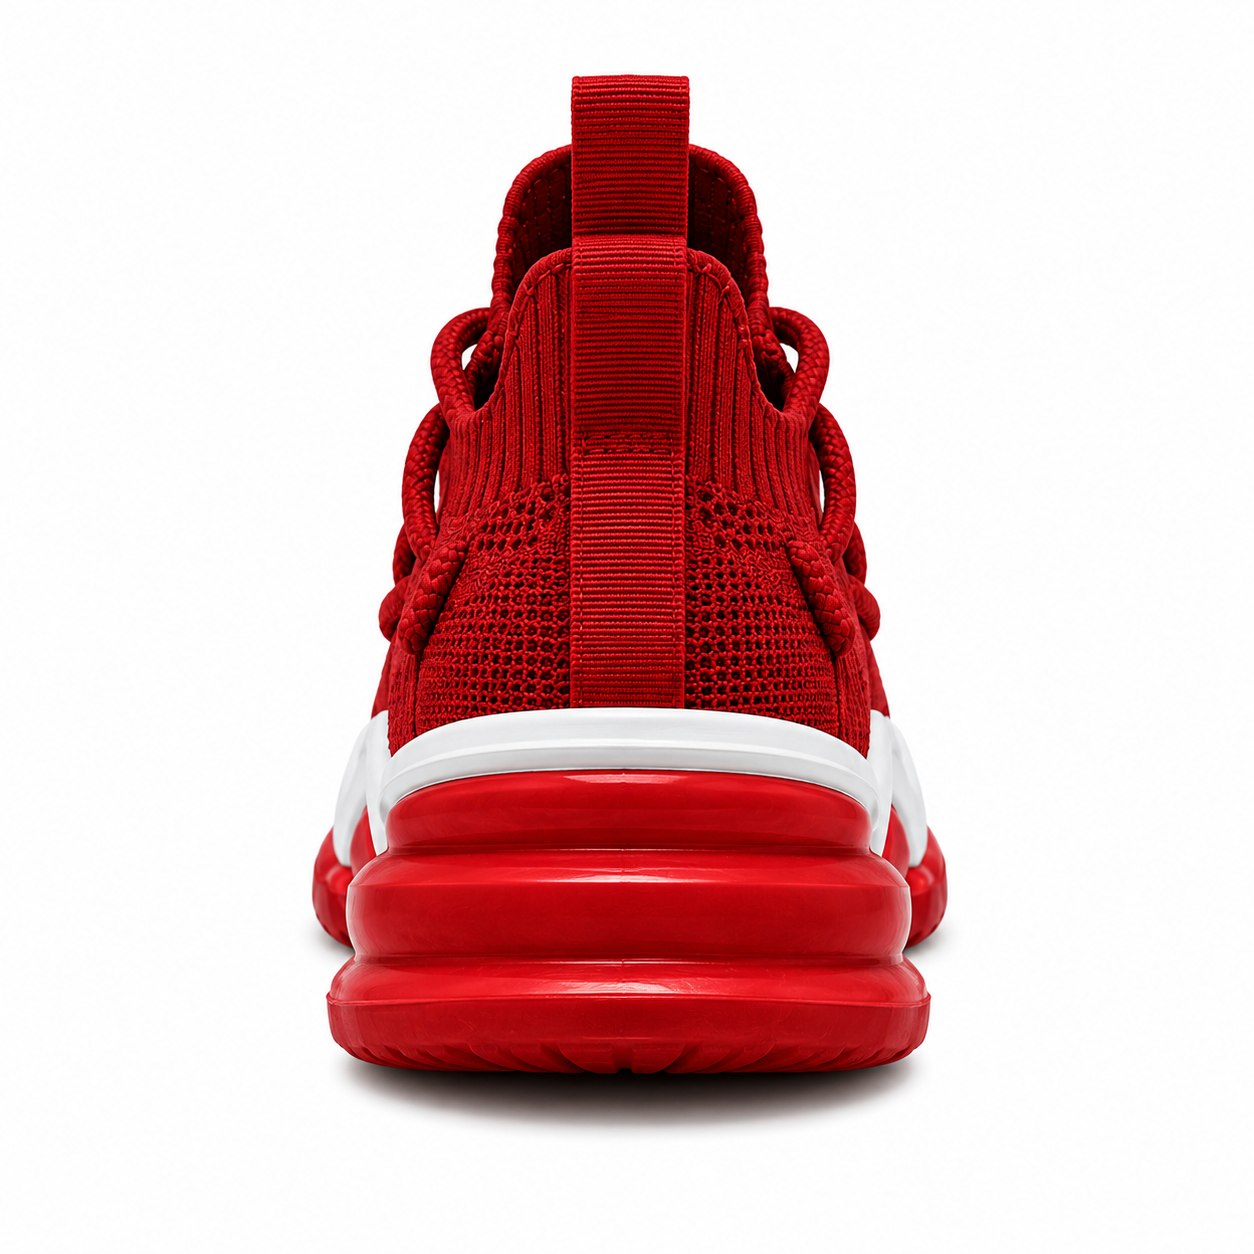
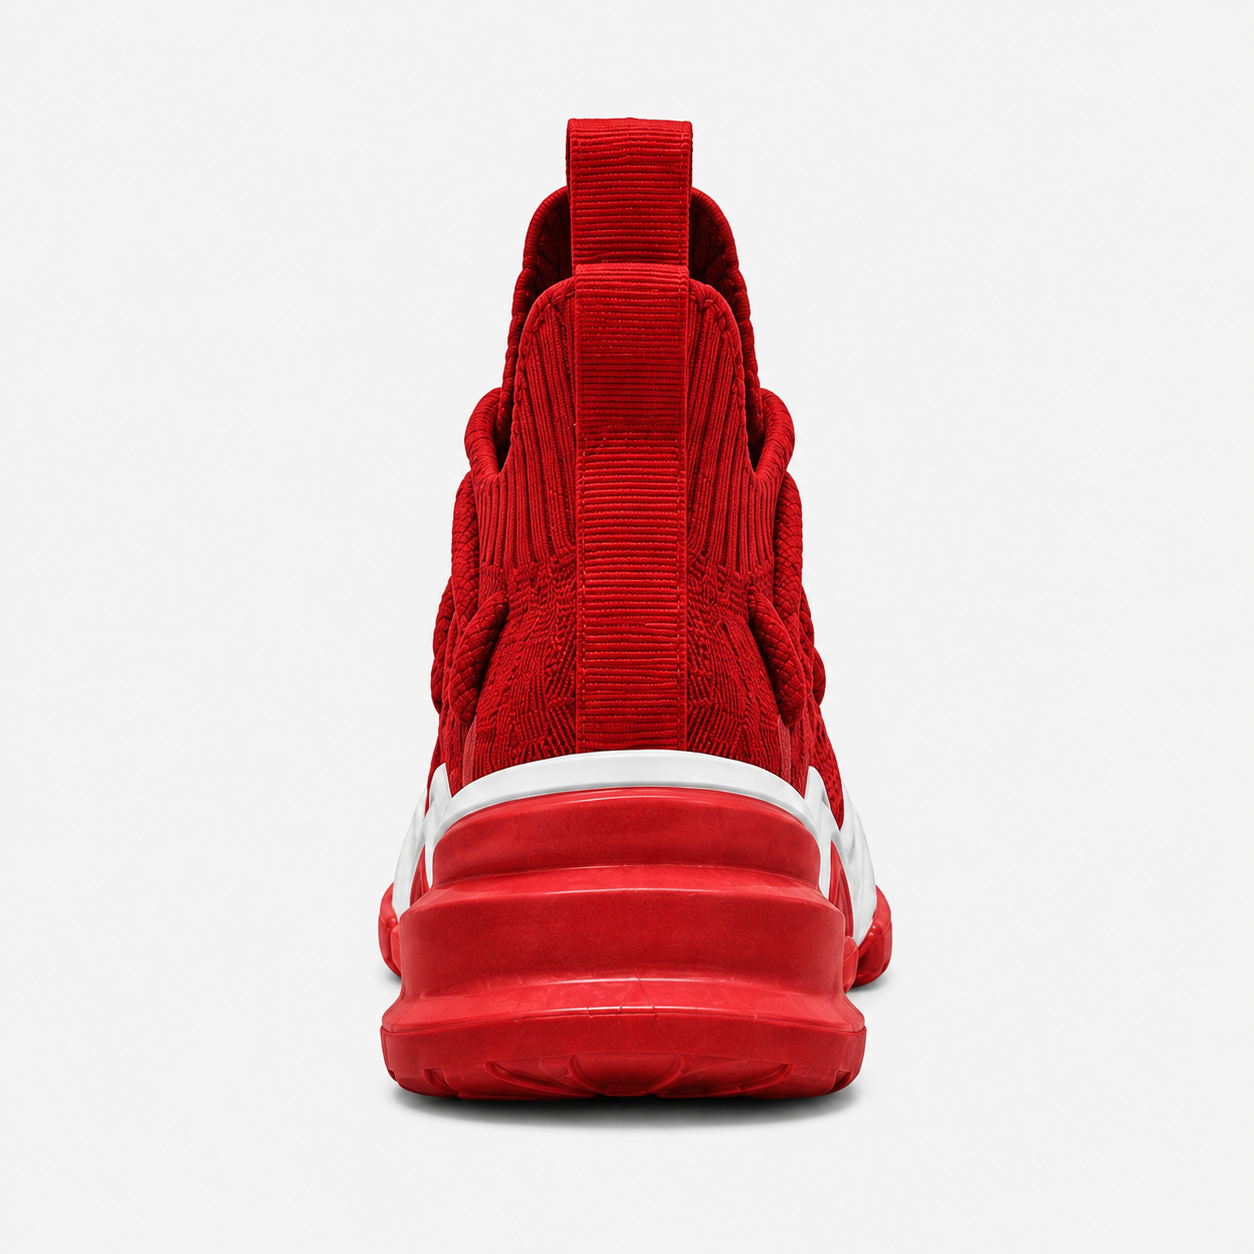
Update Cardinal (red) colourway with new product images including side view

Changed region(s): [[0.2488, 0.0622, 0.7775, 0.9019]]

diff --git a/src/components/product/PDPHero.tsx b/src/components/product/PDPHero.tsx
@@ -10,7 +10,7 @@ type View = typeof VIEWS[number]
 
 const VIEW_IMAGES: Record<string, Record<View, string>> = {
   obs: { FRONT: '/assets/shoe-black-front.png', SIDE: '/assets/shoe-black.jpg', BACK: '/assets/shoe-black-rear.png', TOP: '/assets/shoe-black-top.png' },
-  car: { FRONT: '/assets/shoe-red-front.png',   SIDE: '/assets/shoe-red.jpg',   BACK: '/assets/shoe-red-rear.png',   TOP: '/assets/shoe-red-top.png'   },
+  car: { FRONT: '/assets/shoe-red-front.png', SIDE: '/assets/shoe-red-side.jpeg', BACK: '/assets/shoe-red-rear.png', TOP: '/assets/shoe-red-top.png' },
   ice: { FRONT: '/assets/shoe-blue-front.png',  SIDE: '/assets/shoe-blue.jpg',  BACK: '/assets/shoe-blue-rear.png',  TOP: '/assets/shoe-blue-top.png'  },
   ros: { FRONT: '/assets/shoe-pink-front.png',  SIDE: '/assets/shoe-pink.jpg',  BACK: '/assets/shoe-pink-rear.png',  TOP: '/assets/shoe-pink-top.png'  },
 }
